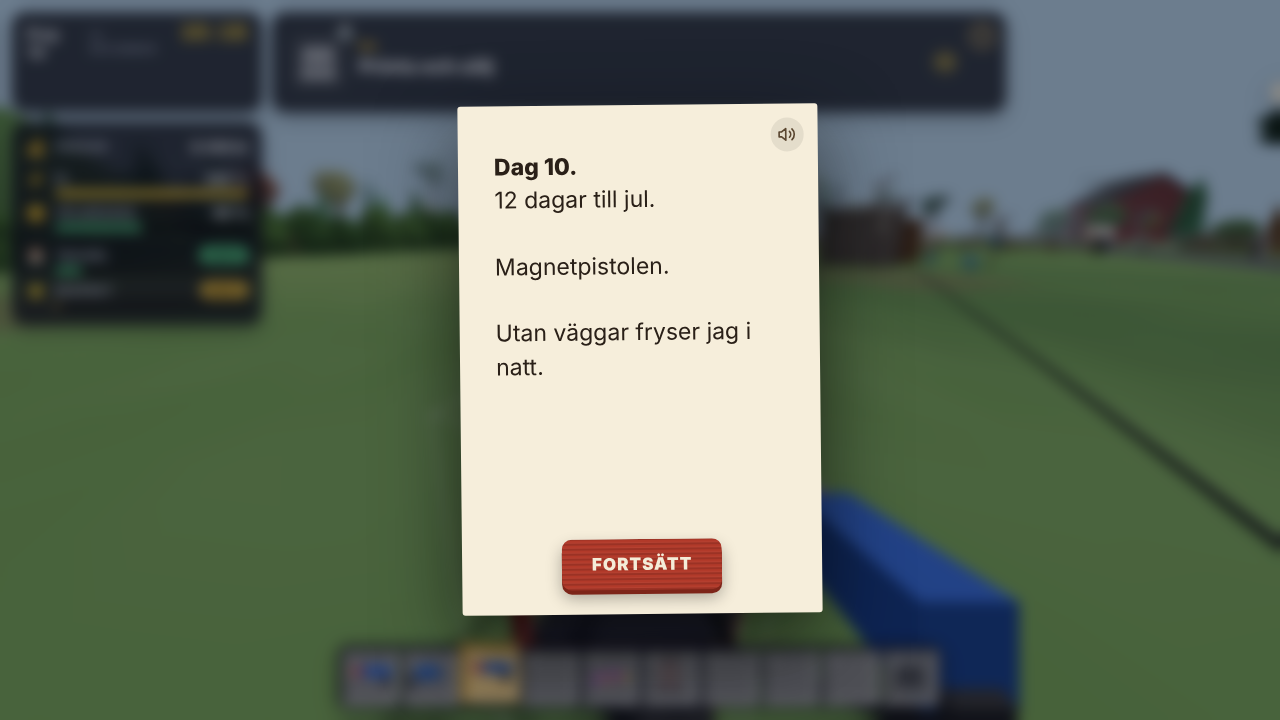
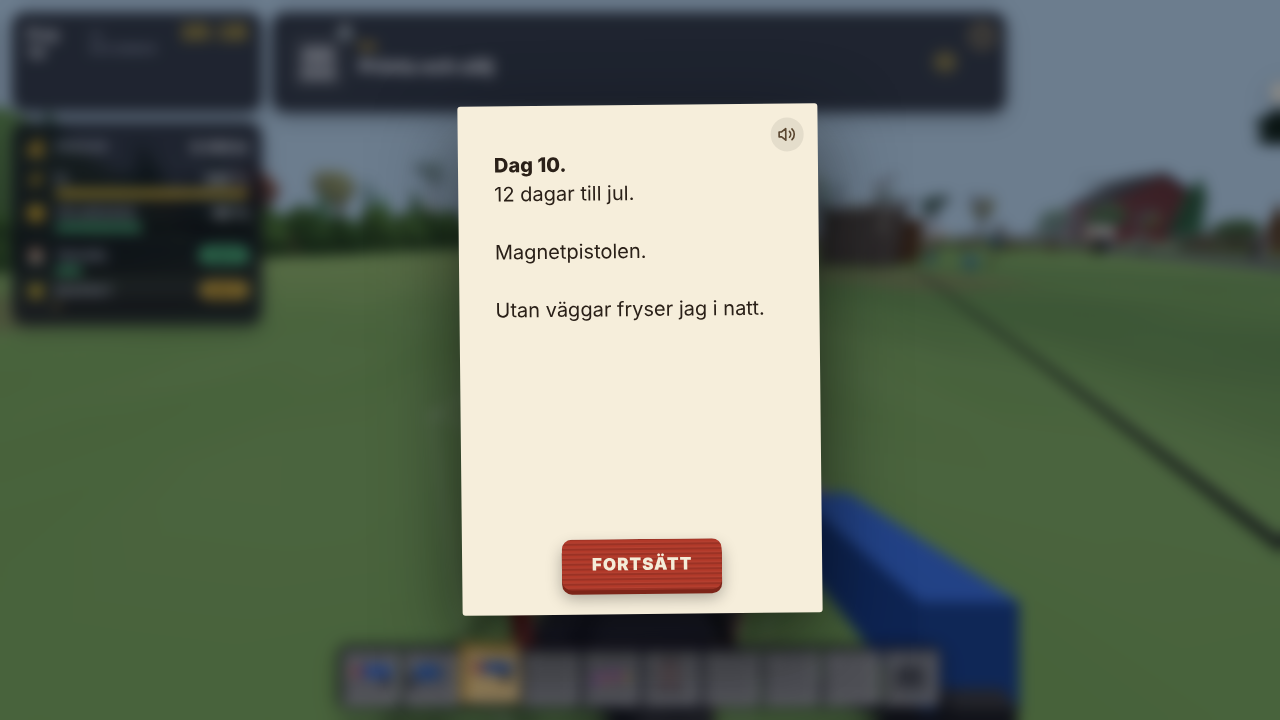
Inkorg 42: morgonnotiserna utan dubbelord och staplade (Ali överst), dagbokstexten 20 px (lägst 18)
Claude-Session: https://claude.ai/code/session_014156cp9JxbGsW1A8ZsF5gD

Changed region(s): [[0.375, 0.3972, 0.5938, 0.5194], [0.375, 0.2139, 0.5, 0.3056], [0.375, 0.3361, 0.5312, 0.3972]]

diff --git a/spel/printa-hem/spel.js b/spel/printa-hem/spel.js
@@ -10045,7 +10045,7 @@ css.textContent = `
 .ph-dk-rub{font:700 22px/1.3 "Bradley Hand","Segoe Print","Comic Sans MS",cursive;text-align:left;margin:2px 0 6px}.ph-dagbokkort .ph-pap-text{font:500 22px/1.5 "Bradley Hand","Segoe Print","Comic Sans MS",cursive}.ph-dk-extra{font:500 13px/1.45 system-ui;text-align:left;margin:-6px 0 14px;opacity:.75}.ph-dk-extra .br-rapport{display:block;background:none;color:#5a4630;padding:0;border:0;box-shadow:none}.ph-dk-extra .ali-vill{background:none;color:#5a4630;border:0;box-shadow:none;padding:0}.ph-kontroll[hidden]{display:none!important}
 .ph-dagbokkort .ph-fortsatt{display:block;margin:0 auto;background:#d8392b;color:#fff;letter-spacing:.06em;font-weight:900;min-width:180px}
 .ph-nattprint{margin:18px auto 0;width:min(340px,80vw);background:#141b33;border-radius:14px;padding:14px 18px;font:500 15px/1.3 system-ui,sans-serif;text-align:left;box-shadow:0 10px 30px rgba(0,0,0,.5)}.ph-nattprint .np-rub{font:800 12px system-ui;letter-spacing:.14em;opacity:.65;margin-bottom:8px}.ph-nattprint .np-rad{display:flex;align-items:center;gap:10px;margin:4px 0}.ph-nattprint .np-rad span{flex:1}.ph-nattprint .np-rad b{font-weight:700;opacity:.9}.ph-nattprint .np-fler{opacity:.6;font-size:13px;margin:4px 0 0 40px}.ph-nattprint .np-streck{height:1px;background:rgba(255,255,255,.18);margin:10px 0 8px}.ph-nattprint .np-tot{display:flex;justify-content:space-between;margin:3px 0}.ph-nattprint .np-kr b{color:#ffd35a}
-.ph-dk-a4{--dk-u:min(1vh,.5625vw);--dk-px:23;width:calc(var(--dk-u)*50)!important;height:calc(var(--dk-u)*70.7);min-height:calc(var(--dk-u)*70.7);padding:calc(var(--dk-u)*6.2) calc(var(--dk-u)*5) calc(var(--dk-u)*11)!important;position:relative;display:block;font:400 calc(var(--dk-u)*var(--dk-px)/7.2)/1.45 system-ui,-apple-system,"Segoe UI",sans-serif!important;border-radius:3px}
+.ph-dk-a4{--dk-u:min(1vh,.5625vw);--dk-px:20;width:calc(var(--dk-u)*50)!important;height:calc(var(--dk-u)*70.7);min-height:calc(var(--dk-u)*70.7);padding:calc(var(--dk-u)*6.2) calc(var(--dk-u)*5) calc(var(--dk-u)*11)!important;position:relative;display:block;font:400 calc(var(--dk-u)*var(--dk-px)/7.2)/1.45 system-ui,-apple-system,"Segoe UI",sans-serif!important;border-radius:3px}
 .ph-dk-a4 .ph-dk-sida{cursor:pointer}.ph-dk-a4 .ph-dk-dag{white-space:nowrap;margin:0 0 1.45em}.ph-dk-a4 .ph-dk-dag b{font-weight:800}.ph-dk-a4 .ph-dk-rub{font:inherit;font-weight:400;margin:0 0 1.45em;text-align:left}.ph-dk-a4 .ph-pap-text{font:inherit!important;margin:0!important}.ph-dk-a4 .ph-dk-luft{height:.725em}.ph-dk-a4 .ph-dk-extra{font-size:.62em;margin:.8em 0 0}.ph-dk-a4 .ph-dk-extra *{color:#5a4630!important}
 .ph-dk-a4 .ph-fortsatt{position:absolute;left:50%;bottom:calc(var(--dk-u)*3.33);transform:translateX(-50%);margin:0;min-width:calc(var(--dk-u)*20)}
 .ph-dk-a4 .ph-dk-rost{top:calc(var(--dk-u)*2);right:calc(var(--dk-u)*2);width:calc(var(--dk-u)*4.6);height:calc(var(--dk-u)*4.6);padding:0;justify-content:center;background:rgba(0,0,0,.07);color:#5a4630}.ph-dk-a4 .ph-dk-rost svg{width:60%;height:60%}.ph-dk-a4 .ph-dk-rost.av{background:rgba(0,0,0,.07);color:#5a4630}
@@ -10596,8 +10596,8 @@ function notisVisa(text, typ = '', o = {}) {
   const el = typ === 'sms' || typ === 'lapp' ? medEl : notisEl;   // meddelanden till vänster, notiser till höger
   const finns = [...el.children].find((k) => k.dataset.text === text && !k.classList.contains('ut'));
   if (finns) { clearTimeout(finns._t); finns._t = setTimeout(() => taBort(finns), NOTIS_TID); finns.animate([{ transform: 'scale(1.04)' }, { transform: 'scale(1)' }], { duration: 200 }); return finns; }
-  if (el === notisEl && (o.forst || iKanalVisa)) for (const x of [...el.children])   /* A-093 p.5: det kön visar nu sägs nu – texten får inte vänta bakom en äldre notis och komma 3 s efter rösten */ if (!x.classList.contains('ut')) { clearTimeout(x._t); taBort(x); }   /* svaret på ett klick går först: den gamla notisen viker undan direkt */
-  if (el === notisEl && [...el.children].some((x) => !x.classList.contains('ut'))) {   // en syns redan: köa (samma text bara en gång)
+  if (el === notisEl && !o.stapla && (o.forst || iKanalVisa)) for (const x of [...el.children])   /* A-093 p.5: det kön visar nu sägs nu – texten får inte vänta bakom en äldre notis och komma 3 s efter rösten */ if (!x.classList.contains('ut')) { clearTimeout(x._t); taBort(x); }   /* svaret på ett klick går först: den gamla notisen viker undan direkt */
+  if (el === notisEl && !o.stapla && [...el.children].some((x) => !x.classList.contains('ut'))) {   // en syns redan: köa (morgonens notiser staplas – inkorg 42 p.2) (samma text bara en gång)
     if (!notisKo.some(([t]) => t === text)) notisKo.push([text, typ, o]); if (notisKo.length > 6) notisKo.shift(); return null;
   }
   textLogg('notis', typ, text);   // loggas när den faktiskt visas (inte när den väntar i notiskön)
@@ -10608,7 +10608,7 @@ function notisVisa(text, typ = '', o = {}) {
   el.prepend(k);
   requestAnimationFrame(() => k.classList.add('in'));
   const ut = [...el.children].filter((x) => !x.classList.contains('ut'));
-  ut.slice(el === medEl ? 3 : NOTIS_MAX).forEach(taBort);
+  ut.slice(el === medEl ? 3 : o.stapla ? 3 : NOTIS_MAX).forEach(taBort);   /* inkorg 42: morgonens notiser får ligga under varandra */
   { const e = regiLogg(typ === 'sms' ? 'sms' : typ === 'lapp' ? 'dagbok' : typ === 'tanke' ? 'tanke-text' : 'notis', o.vikt || '', '', text, Math.max(lasTid(text), el === notisEl ? NOTIS_TID : o.tid || 7000)); if (o.svar != null) e.svar = !!o.svar; }   /* A-080 · inkorg 22 */
   k._t = setTimeout(() => { taBort(k); if (el === notisEl) setTimeout(() => { const n = notisKo.shift(); if (n) notisVisa(n[0], n[1], { ...n[2], direkt: true }); }, 450);   /* notisen har redan gått genom Regissören – tillbaka in i kön ströks den som upprepning */ }, Math.max(lasTid(text), el === notisEl ? (o.tid || NOTIS_TID) : o.tid || 7000));   /* A-080 regel 3: läsbar tid */
   return k;
@@ -11596,7 +11596,7 @@ function dagbokKort(text, o = {}) {
    rubriken (slutar med punkt), tom rad, texten. Samma sans-serif och storlek på all text. Högtalaren uppe till höger,
    FORTSÄTT nere i mitten. Kapitelkortet (rubrik "KAPITEL …") behåller sitt gamla kort. */
 const DK_TYST = '<svg viewBox="0 0 24 24"><path d="M4 9h4l5-4v14l-5-4H4z" fill="currentColor"/><path d="M16 9.5a3.5 3.5 0 0 1 0 5M18.5 7a7 7 0 0 1 0 10" stroke="currentColor" stroke-width="1.8" fill="none" stroke-linecap="round" opacity=".35"/><path d="M3 3l18 18" stroke="currentColor" stroke-width="2.2" stroke-linecap="round"/></svg>';   /* överstruken högtalare = rösten av */
-const DK_TEXT_PX = 23, DK_MIN_PX = 20, DK_FYLL = 0.70;   // textstorlek på 1280×720, minsta storlek, största andel av sidans höjd
+const DK_TEXT_PX = 20, DK_MIN_PX = 18, DK_FYLL = 0.70;   /* inkorg 42 p.4 (Jesper 11:07): 20 px, lägst 18 px */   // textstorlek på 1280×720, minsta storlek, största andel av sidans höjd
 function dagbokDelar(m) {
   let text = String(m.text || '').trim(), dag = '', kvar = '';
   const f = text.match(/^(Dag \d+\.|Julafton\.)[ \t]*([^\n]*)\n?/);
@@ -11622,10 +11622,11 @@ function dagbokPassa(k) {
    andra notiser). Finns inget att säga kommer ingen notis. Igår står i stället på nattskärmen (dagbokPrintar). */
 function visaMorgonNotiser(n) {
   const lista = [];
-  if (n.ali) lista.push([`Ali vill ha idag · ${VAROR[n.ali]?.namn || n.ali} · +50 %`, { bild: n.ali, titel: 'Ali' }]);
-  if (n.webb) lista.push([`Webbshopen · ${n.webb.n} paket i natt · +${krT(n.webb.kr)} kr`, { titel: 'Webbshopen' }]);
-  if (n.lada) lista.push([`Säljlådan · ${n.lada.n} st i natt · +${krT(n.lada.kr)} kr`, { titel: 'Ali' }]);
-  lista.forEach(([t, o], i) => setTimeout(() => notisVisa(t, '', { ...o, svar: true, vikt: 'STORY' }), 600 + i * 1000));   /* svar på FORTSÄTT: de kommer direkt efter sidan, inte efter dagens första tankar */
+  /* inkorg 42 p.1–2: rubriken säger vem, texten säger vad – inget dubbelord. Ali kommer sist, så att han ligger överst */
+  if (n.webb) lista.push([`${n.webb.n} paket i natt · +${krT(n.webb.kr)} kr`, { titel: 'Webbshopen' }]);
+  if (n.lada) lista.push([`${n.lada.n} st i natt · +${krT(n.lada.kr)} kr`, { titel: 'Säljlådan' }]);
+  if (n.ali) lista.push([`${VAROR[n.ali]?.namn || n.ali} · +50 %`, { bild: n.ali, titel: 'Ali vill ha idag' }]);
+  lista.forEach(([t, o], i) => setTimeout(() => notisVisa(t, '', { ...o, svar: true, vikt: 'STORY', stapla: true, tid: 8000 }), 600 + i * 1000));   /* svar på FORTSÄTT: de kommer direkt efter sidan, inte efter dagens första tankar */
 }
 function visaNastaMeddelande() {
   const m = medKo.shift(); if (!m) return;
